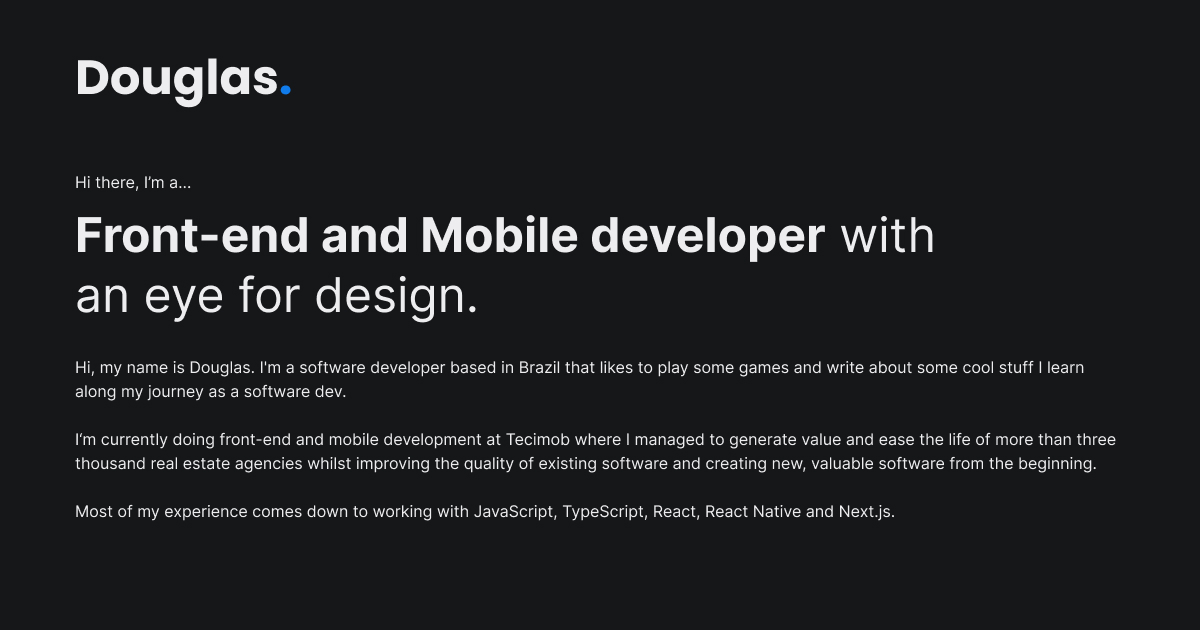
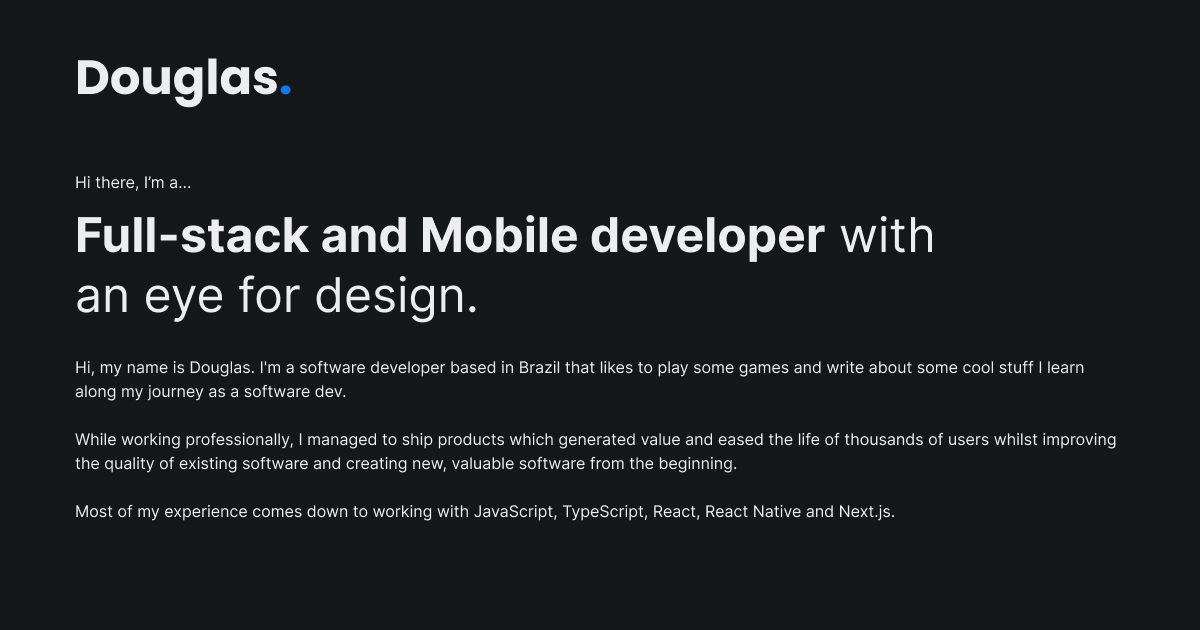
feat: updating texts to show that i'm a full-stack developer

diff --git a/src/pages/_app.tsx b/src/pages/_app.tsx
@@ -19,7 +19,7 @@ function App({ Component, pageProps }: AppProps) {
         <link rel="apple-touch-icon" href="/img/icon-192.png" />
         <meta
           name="description"
-          content="Front-end software developer based in Brazil and focused on web solutions"
+          content="Full-stack software developer based in Brazil and focused on web solutions"
         />
         <link rel="manifest" href="/manifest.json" />
         <meta name="application-name" content="Douglas Pinheiro Goulart" />
@@ -32,14 +32,14 @@ function App({ Component, pageProps }: AppProps) {
           type: 'website',
           locale: 'en_US',
           description:
-            'Front-end software developer based in Brazil and focused on web solutions',
+            'Full-stack software developer based in Brazil and focused on web solutions',
           images: [
             {
               url: `${getAbsoluteUrl()}/img/card.jpg`,
               secureUrl: `${getAbsoluteUrl()}/img/card.jpg`,
               width: 1200,
               height: 630,
-              alt: 'Front-end and Mobile developer with an eye for design.',
+              alt: 'Full-stack and Mobile developer with an eye for design.',
               type: 'image/jpeg',
             },
           ],

diff --git a/src/pages/about.tsx b/src/pages/about.tsx
@@ -8,12 +8,12 @@ export default function About() {
     <>
       <NextSeo
         title="About | Douglas Pinheiro Goulart"
-        description="Douglas is a front-end developer who started learning software development when he was a teenager. He also likes to play some games and write articles about some cool stuff he learns throughout his career."
+        description="Douglas is a full-stack developer who started learning software development when he was a teenager. He also likes to play some games and write articles about some cool stuff he learns throughout his career."
         canonical={getPageUrl()}
         openGraph={{
           title: 'About | Douglas Pinheiro Goulart',
           description:
-            'Douglas is a front-end developer who started learning software development when he was a teenager. He also likes to play some games and write articles about some cool stuff he learns throughout his career.',
+            'Douglas is a full-stack developer who started learning software development when he was a teenager. He also likes to play some games and write articles about some cool stuff he learns throughout his career.',
         }}
       />
       <AboutScreen />

diff --git a/src/pages/index.tsx b/src/pages/index.tsx
@@ -10,12 +10,12 @@ export default function Home(props: HomeProps) {
     <>
       <NextSeo
         title="Home | Douglas Pinheiro Goulart"
-        description="Front-end software developer based in Brazil and focused on web solutions"
+        description="Full-stack software developer based in Brazil and focused on web solutions"
         canonical={getPageUrl()}
         openGraph={{
           title: 'Home | Douglas Pinheiro Goulart',
           description:
-            'Front-end software developer based in Brazil and focused on web solutions',
+            'Full-stack software developer based in Brazil and focused on web solutions',
         }}
       />
       <HomeScreen {...props} />

diff --git a/src/screens/Home/components/Header/index.tsx b/src/screens/Home/components/Header/index.tsx
@@ -5,12 +5,12 @@ export function Header() {
     <header>
       <S.Introduction>Hi there, I&apos;m a...</S.Introduction>
       <S.Role>
-        <strong>Front-end and Mobile developer</strong>{' '}
+        <strong>Full-stack and Mobile developer</strong>{' '}
         <S.RoleAdditional>with an eye for design.</S.RoleAdditional>
       </S.Role>
       <S.Description>
-        I&apos;m a Front-end developer based in Brazil and moved by curiosity. I
-        am currently focused on solutions for the web
+        I&apos;m a Full-stack developer based in Brazil and moved by curiosity.
+        I am currently focused on solutions for the web
       </S.Description>
     </header>
   );

diff --git a/src/screens/Home/components/Header/test.tsx b/src/screens/Home/components/Header/test.tsx
@@ -9,13 +9,13 @@ describe('<Header />', () => {
 
     expect(
       screen.getByRole('heading', {
-        name: 'Front-end and Mobile developer with an eye for design.',
+        name: 'Full-stack and Mobile developer with an eye for design.',
       }),
     ).toBeInTheDocument();
 
     expect(
       screen.getByText(
-        "I'm a Front-end developer based in Brazil and moved by curiosity. I am currently focused on solutions for the web",
+        "I'm a Full-stack developer based in Brazil and moved by curiosity. I am currently focused on solutions for the web",
       ),
     ).toBeInTheDocument();
   });
